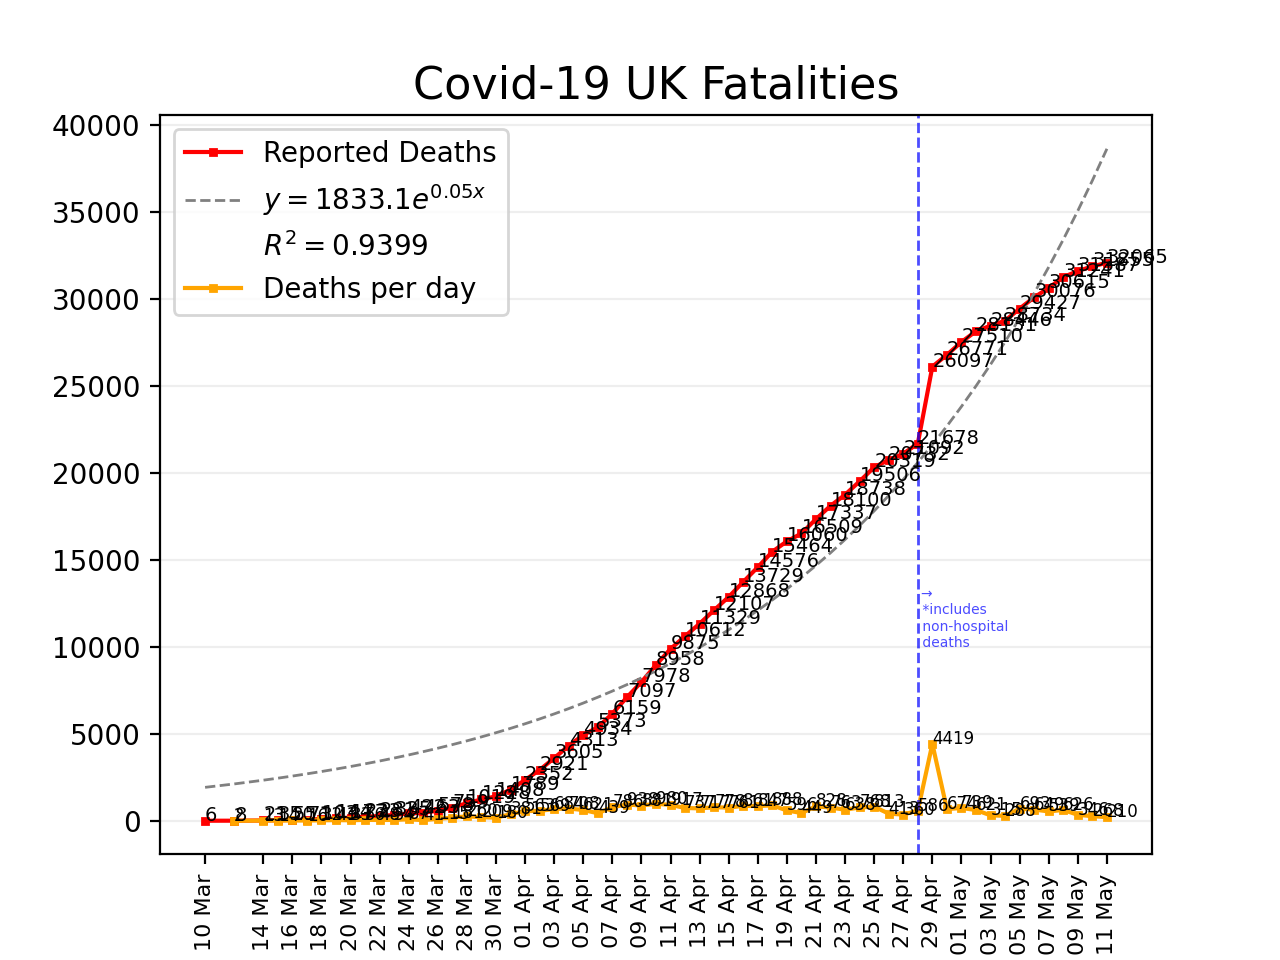
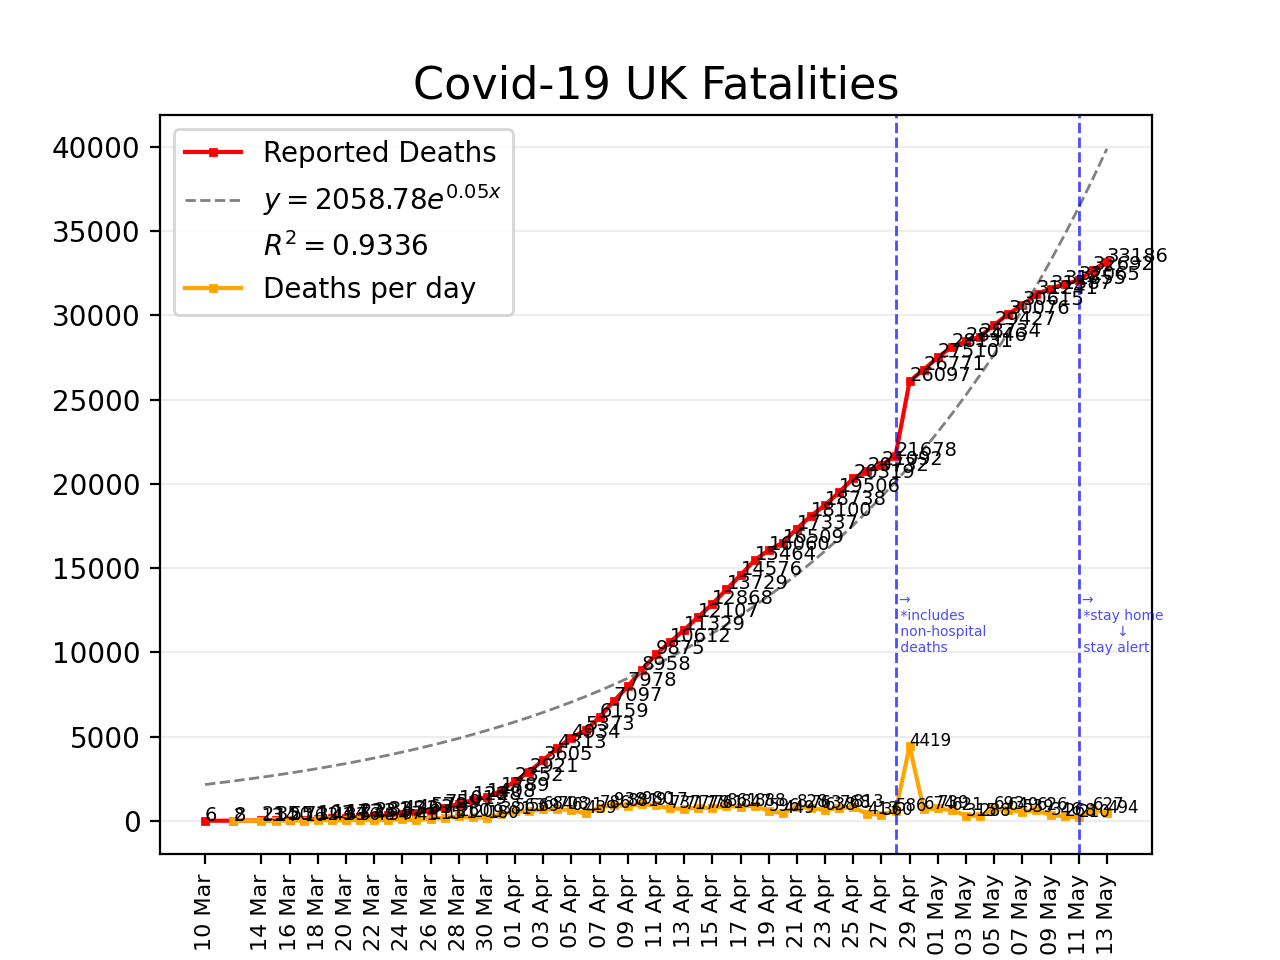
Adds data for 12 and 13 May
Adds label for gov policy change

diff --git a/plot.py b/plot.py
@@ -11,7 +11,7 @@ y = np.array([
     9875, 10612, 11329, 12107, 12868, 13729, 14576, 15464, 16060,
     16509, 17337, 18100, 18738, 19506, 20319, 20732, 21092, 21678,
     26097, 26771, 27510, 28131, 28446, 28734, 29427, 30076, 30615,
-    31241, 31587, 31855, 32065
+    31241, 31587, 31855, 32065, 32692, 33186
 ])
 
 x = np.array([
@@ -22,7 +22,7 @@ x = np.array([
     33, 34, 35, 36, 37, 38, 39, 40, 41, 42,
     43, 44, 45, 46, 47, 48, 49, 50, 51, 52,
     53, 54, 55, 56, 57, 58, 59, 60, 61, 62,
-    63
+    63, 64, 65
 
 
 ])
@@ -39,7 +39,7 @@ labels = [
     '23 Apr', '24 Apr', '25 Apr', '26 Apr', '27 Apr', '28 Apr',
     '29 Apr', '30 Apr', '01 May', '02 May', '03 May', '04 May',
     '05 May', '06 May', '07 May', '08 May', '09 May', '10 May',
-    '11 May'
+    '11 May', '12 May', '13 May'
 ]
 
 x_diffs = x[1:]
@@ -113,11 +113,20 @@ for a, b in zip(x_diffs, diffs):
     plt.text(a, b, str(b), fontsize=6, color='black')
 
 ax = plt.gca()
+
+# annotations
 ax.axvline(x=50, alpha=0.7, color='blue', linestyle='--', linewidth=1)
 plt.text(
     50, 10000, '$\\rightarrow$ \n *includes \n non-hospital \n deaths',
     alpha=0.7, color='blue', fontsize=5
 )
+
+ax.axvline(x=63, alpha=0.7, color='blue', linestyle='--', linewidth=1)
+plt.text(
+    63, 10000, '$\\rightarrow$\n *stay home\n\t$\\downarrow$\n stay alert',
+    alpha=0.7, color='blue', fontsize=5,
+)
+
 
 plt.grid(axis='y', which='major', color='#eeeeee', linestyle='-')
 plt.xticks(x[::2], labels[::2], rotation='vertical', fontsize='8')
